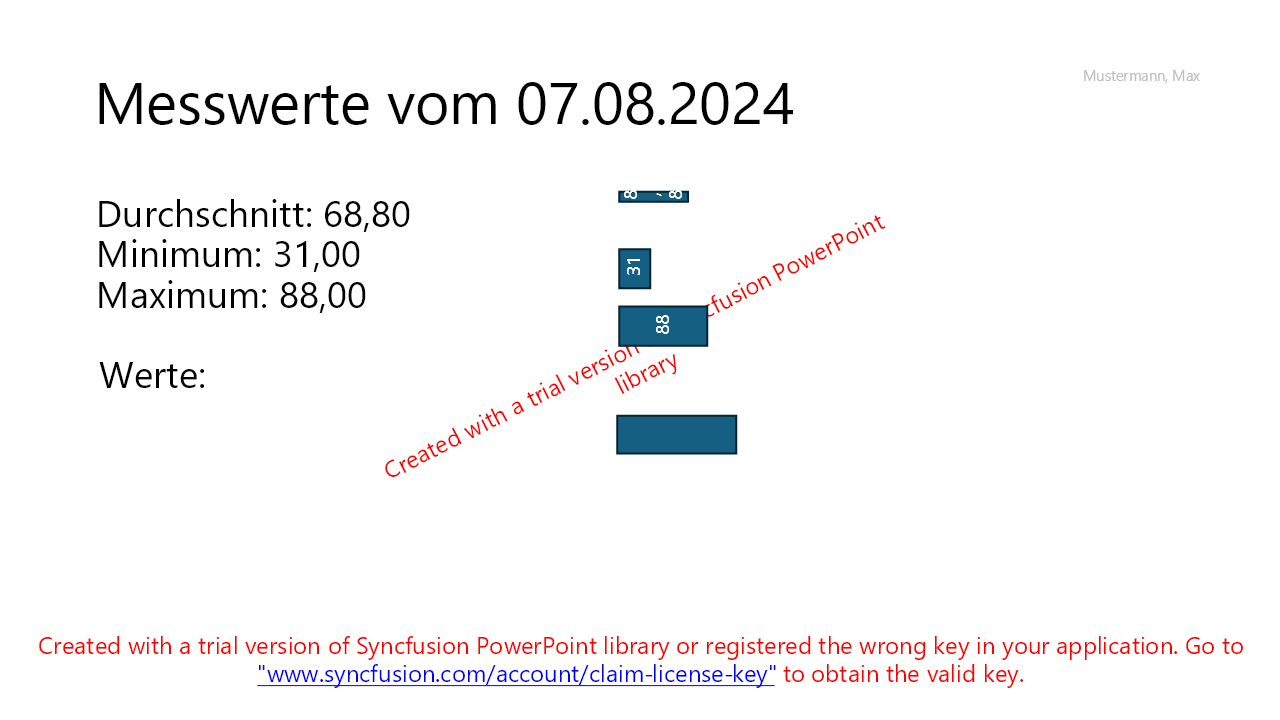
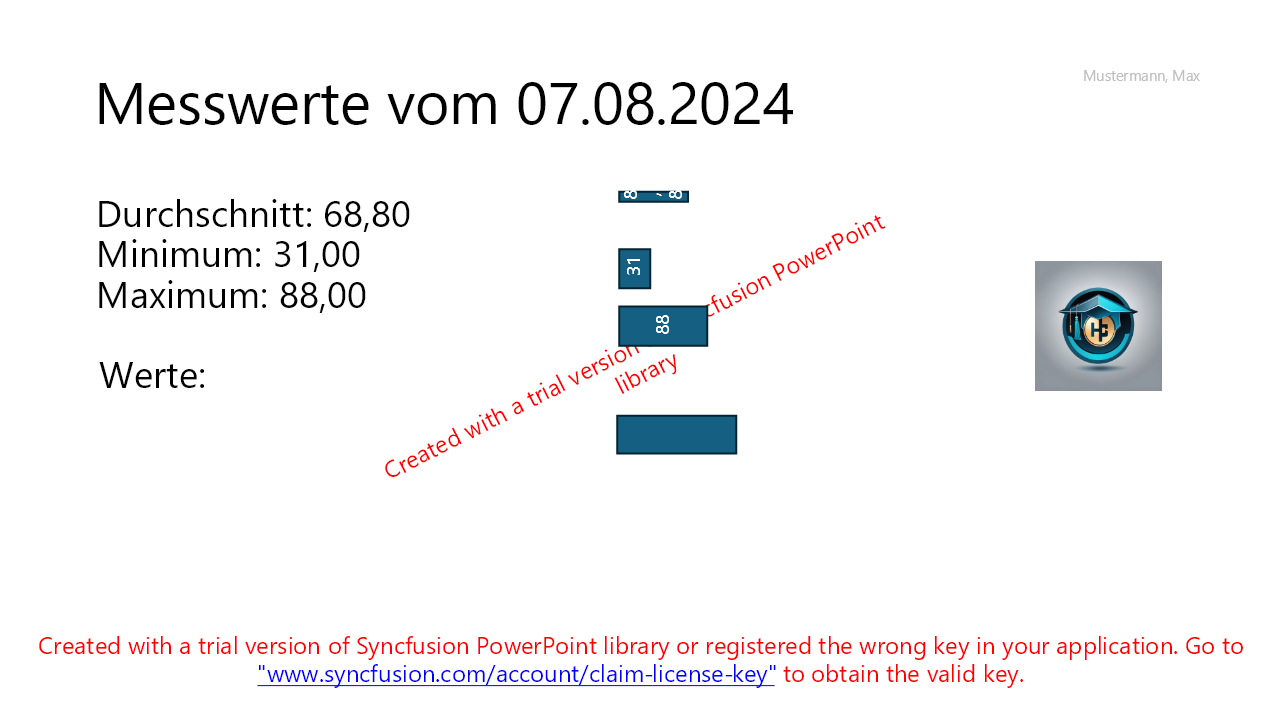
added unit tests but didnt finish fixing failed tests yet

Changed region(s): [[0.7812, 0.3361, 0.9062, 0.55]]

diff --git a/TestSlideAssembler/UnitTestsReplaceImage.cs b/TestSlideAssembler/UnitTestsReplaceImage.cs
@@ -1,0 +1,70 @@
+using System.IO;
+using Microsoft.VisualStudio.TestTools.UnitTesting;
+using ShapeCrawler;
+using SlideAssembler;
+
+namespace TestSlideAssembler
+{
+    [TestClass]
+    public class UnitTestsReplaceImage
+    {
+        [TestMethod]
+        public void Standarttest()
+        {
+            var imageData = new
+            {
+                Logo = File.OpenRead("Template.pptx")
+            };
+            var operation = new ReplaceImage(imageData);
+
+            using var presentationStream = File.OpenRead("Template.pptx");
+
+            SlideAssembler.SlideAssembler.Load(presentationStream).Apply(new ReplaceImage(imageData)).Save(new MemoryStream());
+        }
+
+        [TestMethod]
+        [ExpectedException(typeof(InvalidDataException))]
+        public void ReplaceImage_WithMissingData_ThrowsException()
+        {
+            var imageData = new
+            {
+                NotTheRightLogo = new MemoryStream(new byte[] { /* byte data for an image */ })
+            };
+            var operation = new ReplaceImage(imageData);
+
+            using var presentationStream = File.OpenRead("Template.pptx");
+
+            operation.Apply(new Presentation(presentationStream));
+        }
+
+        [TestMethod]
+        public void ReplaceImage_WithMissingData_IgnoresException_WhenIgnoreMissingDataIsTrue()
+        {
+            var imageData = new
+            {
+                NotTheRightLogo = new MemoryStream(new byte[] { /* byte data for an image */ })
+            };
+            var operation = new ReplaceImage(imageData, ignoreMissingData: true);
+
+            using var presentationStream = File.OpenRead("Template.pptx");
+
+            operation.Apply(new Presentation(presentationStream));
+            Assert.IsTrue(true);
+        }
+
+        [TestMethod]
+        [ExpectedException(typeof(InvalidDataException))]
+        public void ReplaceImage_InvalidStream_ThrowsException()
+        {
+            var imageData = new
+            {
+                Logo = "This is not a stream"
+            };
+            var operation = new ReplaceImage(imageData);
+
+            using var presentationStream = File.OpenRead("Template.pptx");
+
+            operation.Apply(new Presentation(presentationStream));
+        }
+    }
+}

diff --git a/TestSlideAssembler/VerifyTests.cs b/TestSlideAssembler/VerifyTests.cs
@@ -65,7 +65,7 @@ namespace TestSlideAssembler
                     Mittelwert = values.Average(),
                     Maximum = values.Max(),
                     Werte = values,
-                    Logo = new FileStream("test.jpg", FileMode.Open, FileAccess.Read)
+                    Logo = File.OpenRead("test.jpg")
                 };
 
                 //==================================================================================================================================================================
